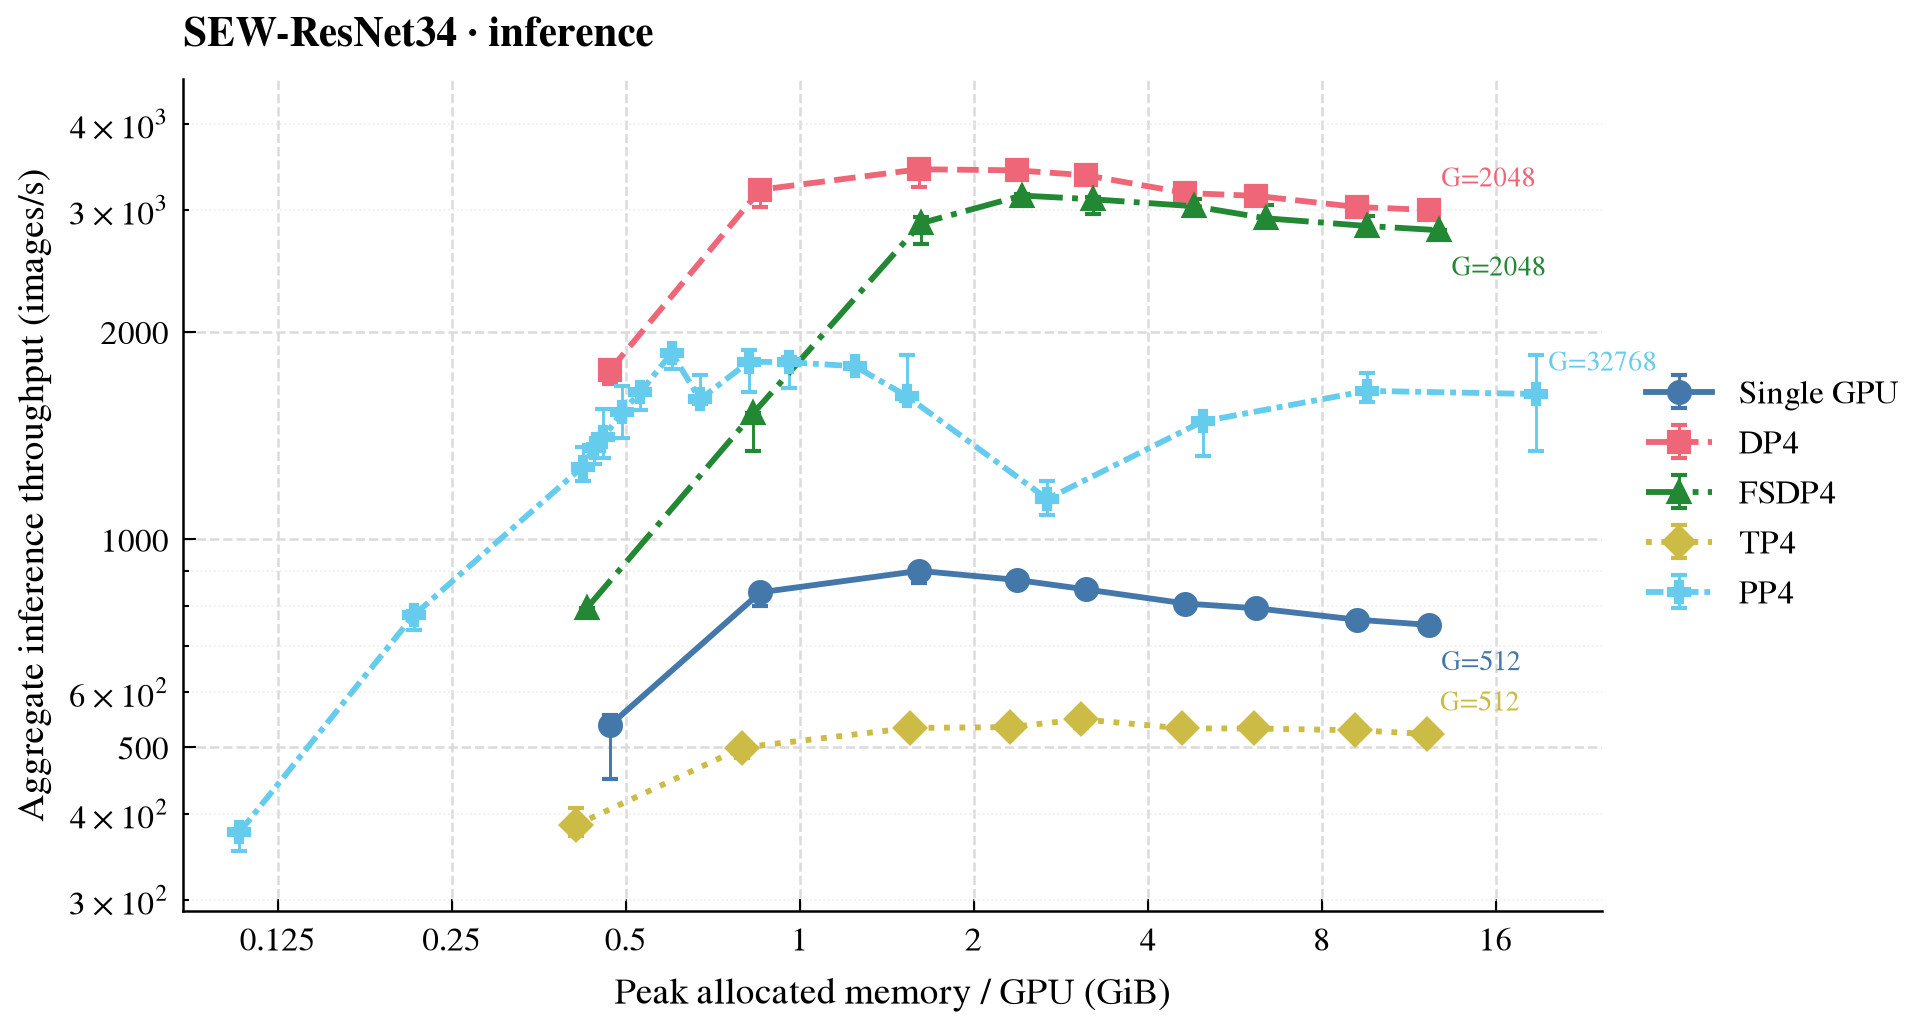
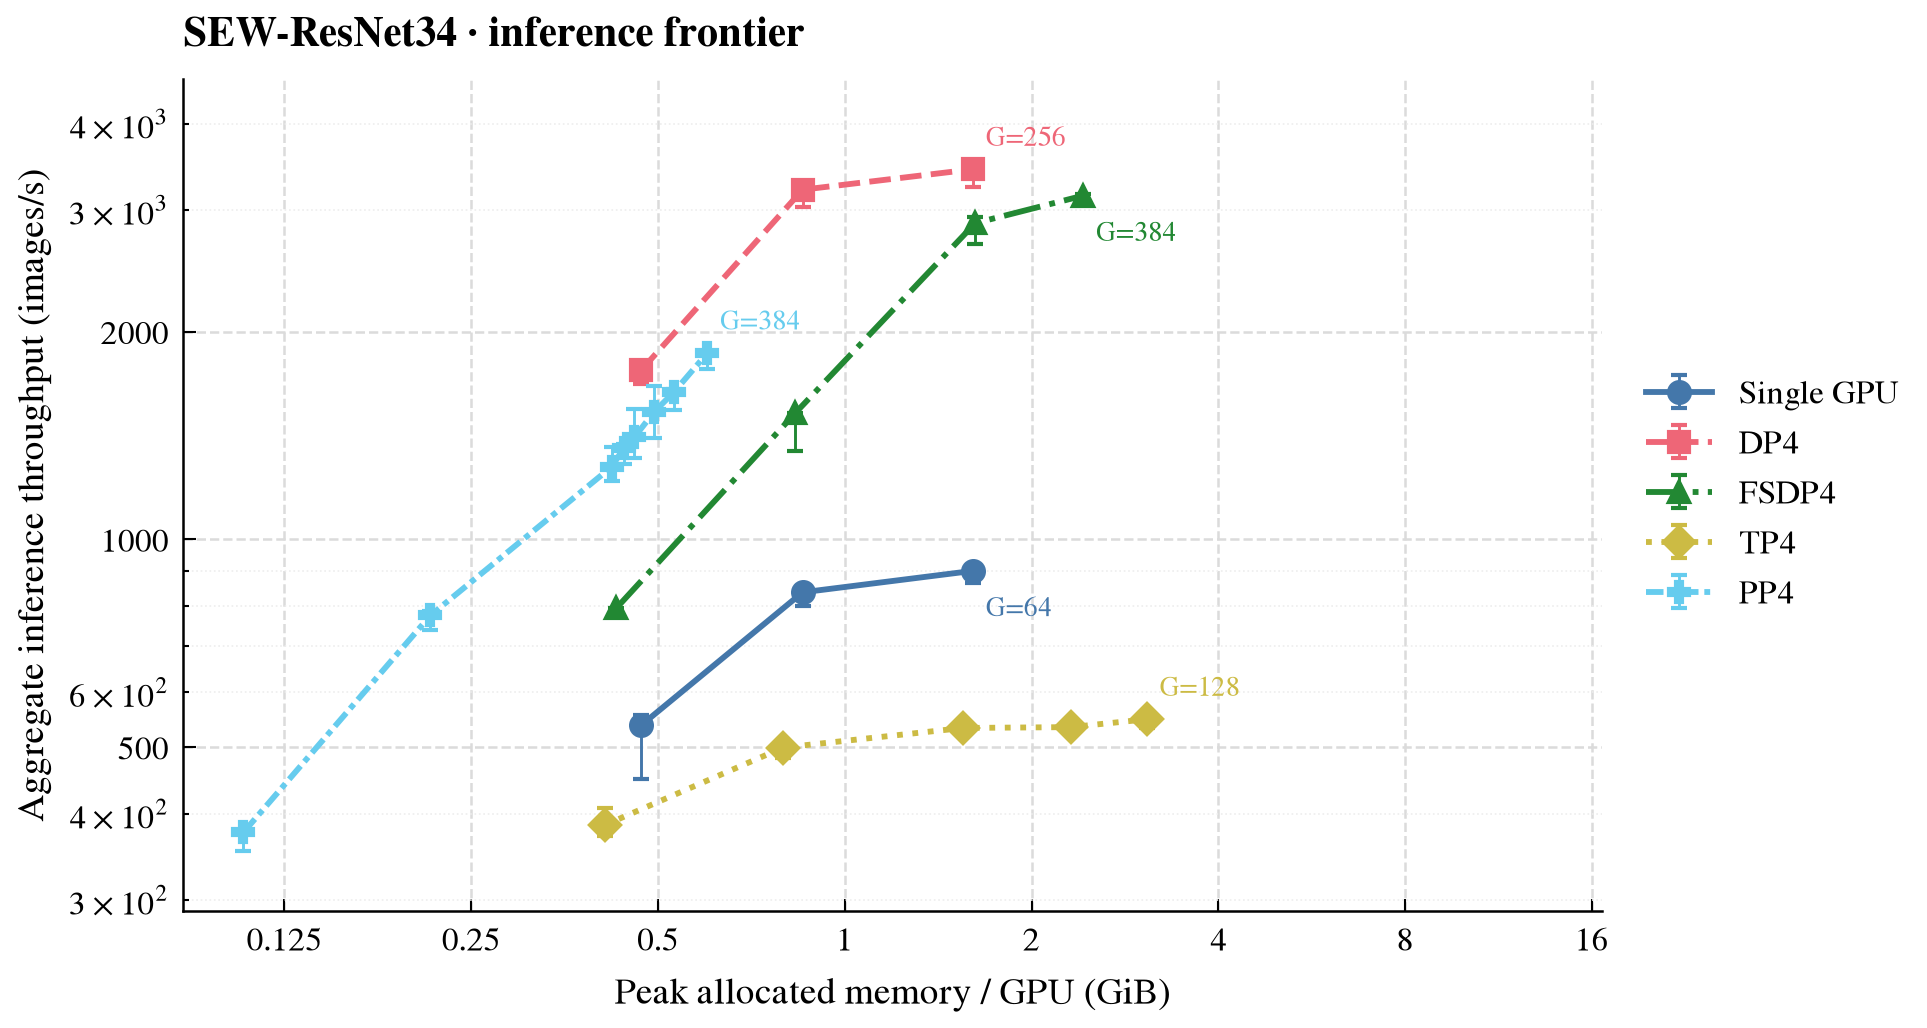
fix(distributed): refine inference benchmark frontiers

diff --git a/benchmark/plot_distributed_inference.py b/benchmark/plot_distributed_inference.py
@@ -147,7 +147,11 @@ def _load_vision(results: Path) -> list[dict]:
         completed = [metrics for status, metrics, _ in runs if status == 0]
         status_codes = [status for status, _, _ in runs]
         if len(completed) == 3:
-            status = "completed"
+            status = (
+                "capacity_probe_completed"
+                if topology == "pp4" and batch_size >= 4096
+                else "completed"
+            )
         elif completed:
             status = "unstable"
         elif any(
@@ -189,7 +193,7 @@ def _load_vision(results: Path) -> list[dict]:
                 + f"exit statuses: {','.join(map(str, sorted(status_codes)))}"
             ),
         }
-        if status == "completed":
+        if len(completed) == 3:
             throughput = _summary(
                 [float(metrics["images_per_second"]) for metrics in completed]
             )
@@ -296,7 +300,8 @@ def _load_sglang(results: Path) -> list[dict]:
             memory = measurement["peak_device_memory_bytes"] / 1024**3
             status = (
                 "completed"
-                if len(throughputs) == 3 and throughput[2] / throughput[1] <= 1.3
+                if len(throughputs) >= 7
+                or (len(throughputs) == 3 and throughput[2] / throughput[1] <= 1.3)
                 else "unstable"
             )
             rows.append(
@@ -327,7 +332,10 @@ def _load_sglang(results: Path) -> list[dict]:
                     "peak_memory_gib_median": memory,
                     "peak_memory_gib_min": memory,
                     "peak_memory_gib_max": memory,
-                    "notes": "Radix cache disabled; static memory fraction 0.5",
+                    "notes": (
+                        "Radix cache disabled; static memory fraction 0.5; "
+                        f"{len(throughputs)} timed repeats"
+                    ),
                 }
             )
     return rows
@@ -479,13 +487,13 @@ def _plot_vision(rows: list[dict], output: Path) -> None:
         ):
             figure, axis = plt.subplots(figsize=(6.1, 3.6))
             for index, topology in enumerate(TOPOLOGY_ORDER):
-                points = sorted(
-                    (
+                points = _pareto_frontier(
+                    [
                         row
                         for row in model_rows
                         if row["topology"] == topology and row["status"] == "completed"
-                    ),
-                    key=lambda row: row["global_batch_size"],
+                    ],
+                    memory_resolution_gib=0.001,
                 )
                 lines = axis.errorbar(
                     [point["peak_memory_gib_median"] for point in points],
@@ -526,7 +534,12 @@ def _plot_vision(rows: list[dict], output: Path) -> None:
             axis.yaxis.set_major_formatter(formatter)
             axis.set_xlabel("Peak allocated memory / GPU (GiB)")
             axis.set_ylabel("Aggregate inference throughput (images/s)")
-            axis.set_title(f"{model} · inference", loc="left", fontweight="bold", pad=8)
+            axis.set_title(
+                f"{model} · inference frontier",
+                loc="left",
+                fontweight="bold",
+                pad=8,
+            )
             axis.spines[["top", "right"]].set_visible(False)
             axis.tick_params(axis="both", which="both", top=False, right=False)
             axis.grid(which="major", color="0.86", linewidth=0.6, linestyle="--")

diff --git a/test/activation_based/test_distributed_inference.py b/test/activation_based/test_distributed_inference.py
@@ -8,7 +8,7 @@ import pytest
 import torch
 from torch.utils.data import Dataset
 
-from benchmark.plot_distributed_inference import _pareto_frontier
+from benchmark.plot_distributed_inference import _load_sglang, _pareto_frontier
 from benchmark.snn_llm.spikelm import SpikeLMConfig
 from spikingjelly.activation_based.distributed.llm import (
     EvaluationConfig,
@@ -45,6 +45,33 @@ def test_inference_plot_uses_pareto_frontier():
     ]
 
     assert _pareto_frontier(points) == [points[1], points[4]]
+
+
+def test_sglang_plot_accepts_seven_repeat_median(tmp_path):
+    data = {
+        "tensor_parallel_size": 1,
+        "pipeline_parallel_size": 1,
+        "data_parallel_size": 1,
+        "measurements": [
+            {
+                "prompt_count": 16,
+                "outputs": [[1] * 8],
+                "inference_seconds_samples": [1.0, 2.0, 3.0],
+                "peak_device_memory_bytes": 1024**3,
+            },
+            {
+                "prompt_count": 32,
+                "outputs": [[1] * 8],
+                "inference_seconds_samples": [1.0] * 7,
+                "peak_device_memory_bytes": 1024**3,
+            },
+        ],
+    }
+    (tmp_path / "sglang_tp1_stable.json").write_text(json.dumps(data))
+
+    rows = _load_sglang(tmp_path)
+
+    assert [row["status"] for row in rows] == ["unstable", "completed"]
 
 
 def test_evaluation_config_and_padding_mask():

diff --git a/docs/source/tutorials/en/distributed_training.rst b/docs/source/tutorials/en/distributed_training.rst
@@ -875,11 +875,14 @@ point starts in a fresh process and uses four
 DataLoader workers, runs five untimed batches and ten measured batches, and is repeated independently three
 times. Timing includes H2D, forward, communication, and metric reduction but
 excludes DataLoader work, model/artifact loading, and initialization. The plots
-show medians and complete ranges; a point appears only when all three runs finish.
+show medians and complete ranges. Only three-run points from the regular
+protocol participate in the throughput-memory Pareto frontiers.
 For the PP4 capacity tail at ``L >= 4096``, one high-level batch already contains
 at least 256 pipeline microbatches. Each fresh process therefore measures one
 batch without an additional warmup, while retaining three independent process
-runs. CSV notes distinguish these points from the regular throughput segment.
+runs. CSV notes/status distinguish these points from the regular throughput
+segment; they remain capacity-table evidence and are not connected to the
+formal throughput lines.
 This section uses ``L`` for the local batch on each DP rank/replica and ``G``
 for the whole-job global batch. Always ``G = L × DP``; TP, PP, CP, and SNN time
 steps ``T`` do not multiply G. PP additionally uses ``K`` for the number of
@@ -907,22 +910,23 @@ pipeline microbatch at large B. The framework does not silently apply this rule
 to user calls. The summary CSV records ``per_rank_batch_size``,
 ``global_batch_size``, ``pipeline_microbatches``, and
 ``pipeline_microbatch_size`` separately.
-SGLang frontier lines merge measurements within the same 0.05-GiB horizontal
-bin and retain its highest throughput. MCore instead connects every successful
+Vision uses exact-memory Pareto frontiers for regular-protocol points. SGLang
+frontier lines merge measurements within the same 0.05-GiB horizontal bin and
+retain its highest throughput. MCore instead connects every successful
 batch-sweep point through OOM. The CSV keeps exact, unquantized memory and every
-measurement for both backends.
+measurement for all three cases.
 
 .. figure:: ../../_static/tutorials/distributed/sew-resnet34-inference-tradeoff.png
     :width: 720px
     :alt: SEW-ResNet34 distributed evaluation throughput and per-GPU peak memory
 
-    SEW-ResNet34 aggregate evaluation throughput versus the busiest GPU's peak allocated memory.
+    SEW-ResNet34 regular-protocol aggregate evaluation throughput-memory Pareto frontiers.
 
 .. figure:: ../../_static/tutorials/distributed/spikformer-inference-tradeoff.png
     :width: 720px
     :alt: Spikformer-S distributed evaluation throughput and per-GPU peak memory
 
-    Spikformer-S aggregate evaluation throughput versus the busiest GPU's peak allocated memory.
+    Spikformer-S regular-protocol aggregate evaluation throughput-memory Pareto frontiers.
 
 At per-rank batch 128, SEW-ResNet34 reaches 845.7, 3368.9, 3109.3, 548.3, and
 1404.1 images/s on one GPU, DP4, FSDP4, TP4, and PP4. Spikformer-S reaches
@@ -1064,14 +1068,17 @@ LLM generation used Qwen2.5-0.5B QCFS, BF16, ``T=2``, 8-token prompts, and
 The global prompt batch G starts at 16 and follows the ``2x/1.5x`` growth rule.
 The regular grid runs sequentially within one Engine per topology. Every
 capacity-boundary ``2x/1.5x`` candidate owns a separate Engine lifetime and a
-360-second budget. Every point has three same-G warmups followed by three
-measurements. Engine startup was excluded
+360-second budget. Regular points have three same-G warmups followed by three
+measurements; scheduler points whose three-run max/min exceeds 1.3 remain
+``unstable``. This update adds non-power-of-two fine grids near the TP1, PP2,
+and PP4 frontiers. Those points also use three warmups, followed by seven timed
+runs whose median resists periodic scheduler slow samples while the plot retains
+the complete min/max range. Engine startup was excluded
 and Radix cache was disabled. SGLang workers do not expose PyTorch allocator peak,
 so the horizontal axis uses the busiest GPU's post-generation NVML device-memory
 usage. It includes the ``memory_fraction_static=0.5`` KV pool and is not directly
-comparable to Vision peak allocated memory. Scheduler points whose three-run
-max/min exceeds 1.3 remain in the CSV as ``unstable`` and are omitted from the
-curve. The static KV pool and MiB-resolution NVML readings can give different G
+comparable to Vision peak allocated memory. The static KV pool and
+MiB-resolution NVML readings can give different G
 values the same horizontal coordinate. The CSV retains every measurement, while
 lines connect only the throughput-memory Pareto frontier. Only the
 highest-throughput point at equal memory enters a line, avoiding vertical
@@ -1081,19 +1088,22 @@ segments and unexplained detached markers.
     :width: 720px
     :alt: Qwen2.5-0.5B QCFS SGLang offline-generation throughput
 
-    SGLang offline-generation throughput-memory Pareto frontiers; frontier points show the three-run median and full range.
+    SGLang offline-generation throughput-memory Pareto frontiers; frontier points show the three- or seven-run median and full range.
 
-At their largest three-run points, TP1, DP2, DP4, TP2, PP2, PP4, and DP2 x TP2
-reach 11147.3, 16416.8, 25079.8, 8610.3, 10397.6, 8345.6, and 13549.1
-generated tokens/s. Their respective global G values are 65536, 98304, 131072,
-49152, 65536, 49152, and 65536; none should be misread as per-GPU batch.
+The best TP1, DP2, DP4, TP2, PP2, PP4, and DP2 x TP2 frontier points reach
+15758.7, 18636.8, 25743.8, 9097.7, 12733.8, 9885.6, and 14355.1 generated
+tokens/s at G=2048, 16384, 32768, 8192, 1024, 2048, and 32768. None should be
+misread as per-GPU batch. The seven-run TP1, PP2, and PP4 fine grids continue to
+G=3072, 12288, and 8192 without improving median throughput. Their plotted
+endpoints are therefore measured plateau frontiers rather than prematurely
+terminated rising segments.
 SGLang caps in-flight
 tokens and queues excess requests, so user request batch has no traditional OOM
 point; the complete boundary is a throughput plateau rather than a manufactured
 OOM. TP1 remains fastest at small and medium request batches while this 0.5B
 model fits on one GPU; with a sufficiently large queue, pure DP2 and DP4 reach
-1.27x and 1.71x TP1's best throughput. PP2 nearly matches TP1, while PP4 remains
-below it because PP disables the overlap schedule and stage traffic crosses PCIe.
+1.18x and 1.63x TP1's best throughput. PP2 and PP4 remain below TP1 because PP
+disables the overlap schedule and stage traffic crosses PCIe.
 
 .. list-table:: SGLang capacity tail (largest completion → first independent timeout)
     :header-rows: 1
